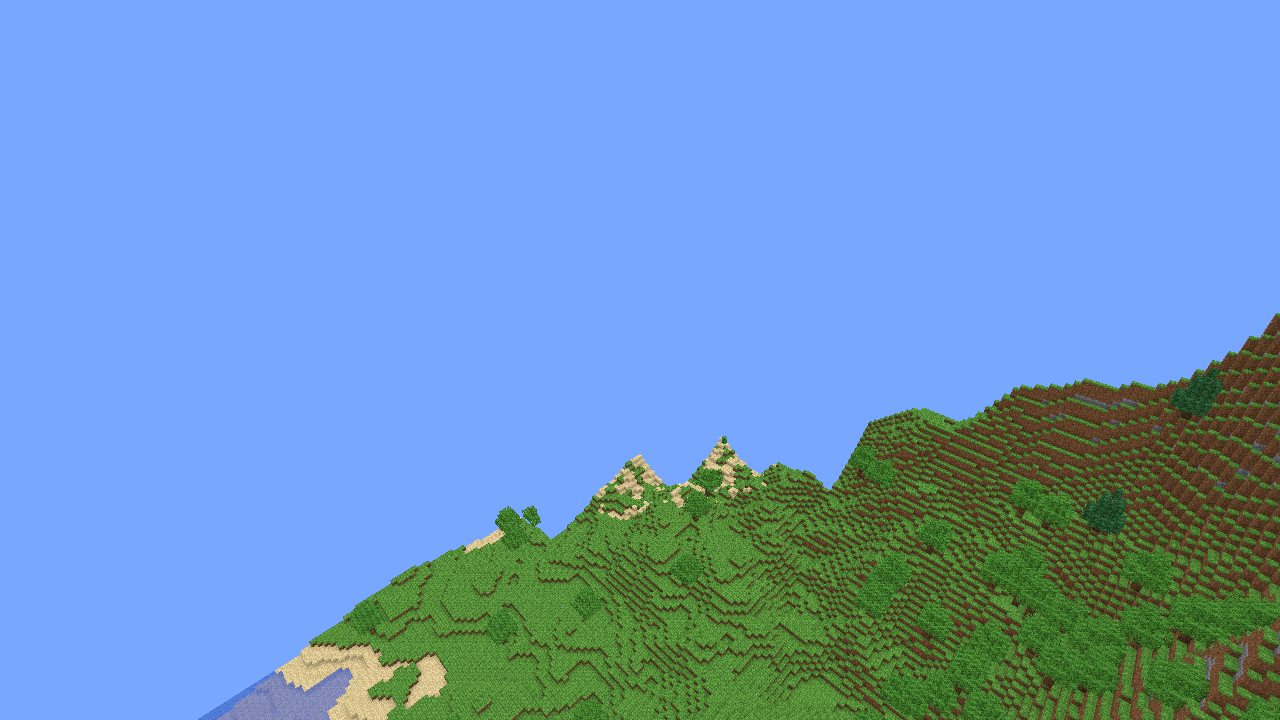
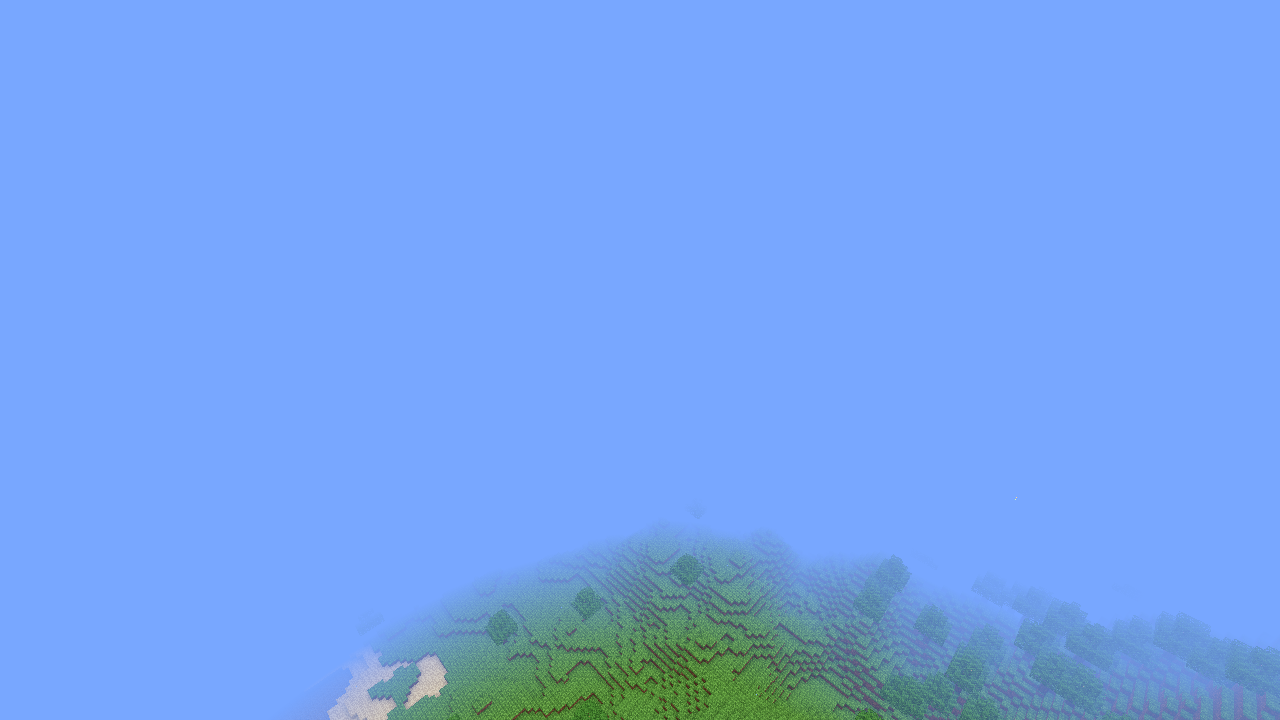
fix: gentler mountains, fog in captures, no anisotropy in presets
Mountain ranges are wider with rounded shoulders instead of thin 250-block spires.
Captures and biome views use the fog of their settings. Anisotropic filtering, which
smooths pixel art up close, is off in every preset. Reference screenshots updated.

Claude-Session: https://claude.ai/code/session_01RznEhak9j1HUkMPKL5bSvG

Changed region(s): [[0.1562, 0.4278, 1.0, 1.0]]

diff --git a/crates/app/src/renders.rs b/crates/app/src/renders.rs
@@ -20,9 +20,9 @@ const BIOME_SEED: &str = "Strata Mundi wiki";
 const SEARCH_STEP: i32 = 48;
 const SEARCH_RINGS: i32 = 160;
 /// The camera stands this far back from the place it shows, on both axes.
-const BACK: i32 = 72;
+const BACK: i32 = 110;
 /// Columns generated around the camera: enough for the view, quick on the CPU.
-const VIEW_RADIUS: u32 = 10;
+const VIEW_RADIUS: u32 = 12;
 /// The view needs this much of the same biome around it, in blocks.
 const BIOME_MARGIN: i32 = 40;
 
@@ -69,7 +69,7 @@ pub fn render_biomes(
             .map(|step| ground(ex + step * 4, ez + step * 4))
             .max()
             .unwrap_or(0);
-        let eye_y = (target + 40.0).max(f64::from(highest) + 16.0);
+        let eye_y = (target + 60.0).max(f64::from(highest) + 24.0);
         let eye = DVec3::new(f64::from(ex), eye_y, f64::from(ez));
         let distance = f64::from(BACK) * std::f64::consts::SQRT_2;
         let pitch = ((target - eye_y) / distance).atan().to_degrees() as f32;
@@ -77,7 +77,11 @@ pub fn render_biomes(
         let view = View {
             camera: Camera::new(eye, 135.0, pitch, 70.0),
             size: (960, 540),
-            graphics: graphics.clone(),
+            // The fog ends where the generated area does.
+            graphics: GraphicsSettings {
+                render_distance: VIEW_RADIUS,
+                ..graphics.clone()
+            },
         };
         let path = image_path(dir, &biome.id);
         capture(content, &world, &view, &path).with_context(|| format!("biome {}", biome.id))?;

diff --git a/crates/worldgen/src/climate.rs b/crates/worldgen/src/climate.rs
@@ -37,7 +37,7 @@ impl ClimateMaps {
             continentalness: Noise::new(seed, 3, 1.0 / (1100.0 * scale), 4),
             erosion: Noise::new(seed, 4, 1.0 / (700.0 * scale), 3),
             detail: Noise::new(seed, 5, 1.0 / 64.0, 4),
-            ridges: Noise::new(seed, 7, 1.0 / 220.0, 3),
+            ridges: Noise::new(seed, 7, 1.0 / 420.0, 3),
             jitter: Noise::new(seed, 6, 1.0 / 6.0, 1),
             sea_level: f64::from(content.terrain.sea_level),
         }
@@ -63,10 +63,11 @@ impl ClimateMaps {
         let ruggedness = smoothstep(0.0, 0.8, -climate.erosion);
         let inland = smoothstep(-0.1, 0.35, c);
         // Ridged noise (sharp crests, wide valleys) shapes the mountain ranges.
-        let ridge = (1.0 - self.ridges.at(x, z).abs()).powi(3);
-        let mountains = ruggedness * inland * (60.0 + 190.0 * ridge);
+        // Wide ranges with rounded shoulders: a crest climbs over ~100 blocks, not 20.
+        let ridge = (1.0 - self.ridges.at(x, z).abs()).powi(2);
+        let mountains = ruggedness * inland * (50.0 + 140.0 * ridge);
         let hills = (1.0 - ruggedness) * inland * 14.0;
-        let detail = self.detail.at(x, z) * (4.0 + mountains * 0.08 + hills * 0.6);
+        let detail = self.detail.at(x, z) * (4.0 + mountains * 0.05 + hills * 0.6);
         (base + mountains + detail + hills * (self.detail.at(z, x) * 0.5 + 0.5))
             .clamp(1.0, MAX_HEIGHT) as i32
     }

diff --git a/crates/client/src/render/mod.rs b/crates/client/src/render/mod.rs
@@ -21,7 +21,7 @@ pub use ui_pipeline::UiPipeline;
 
 use crate::camera::Camera;
 use crate::mesher::{SectionKey, SectionMesh};
-use crate::settings::{ColorFilter, Settings};
+use crate::settings::{ColorFilter, GraphicsSettings, Settings};
 use block_pipeline::{BlockPass, BlockPipeline, CameraUniform};
 use depth::DepthBuffer;
 use frustum::Frustum;
@@ -112,12 +112,20 @@ impl Default for RenderOptions {
 
 impl RenderOptions {
     pub fn from_settings(settings: &Settings) -> Self {
-        let graphics = &settings.graphics;
+        Self {
+            render_scale: settings.graphics.render_scale as f32 / 100.0,
+            color_filter: settings.interface.color_filter,
+            ..Self::for_capture(&settings.graphics)
+        }
+    }
+
+    /// Captures: the fog of the graphics settings, full resolution, no filter.
+    pub fn for_capture(graphics: &GraphicsSettings) -> Self {
         Self {
             fog: graphics.fog,
             fog_end: (graphics.render_distance as f32 - 0.5) * SECTION_SIZE as f32,
-            render_scale: graphics.render_scale as f32 / 100.0,
-            color_filter: settings.interface.color_filter,
+            render_scale: 1.0,
+            color_filter: ColorFilter::None,
         }
     }
 

diff --git a/crates/client/src/screenshot.rs b/crates/client/src/screenshot.rs
@@ -1,8 +1,8 @@
 use crate::camera::Camera;
 use crate::mesher::{BlockTable, mesh_section};
 use crate::render::{
-    Gpu, GpuError, OFFSCREEN_FORMAT, OffscreenTarget, ReadbackError, Renderer, Target,
-    TextureFiltering,
+    Gpu, GpuError, OFFSCREEN_FORMAT, OffscreenTarget, ReadbackError, RenderOptions, Renderer,
+    Target, TextureFiltering,
 };
 use crate::settings::GraphicsSettings;
 use crate::world::ClientWorld;
@@ -65,6 +65,7 @@ pub fn render_image(
     let ao = view.graphics.ambient_occlusion;
     renderer.ambient_occlusion = f32::from(u8::from(ao));
     renderer.vertical_distance = view.graphics.vertical_distance;
+    renderer.options = RenderOptions::for_capture(&view.graphics);
     let table = BlockTable::new(content.blocks.iter().map(|(_, _, block)| block));
     for key in world.section_keys() {
         let mesh = mesh_section(&world.neighborhood(key), &table, ao);

diff --git a/crates/client/src/settings/graphics.rs b/crates/client/src/settings/graphics.rs
@@ -121,11 +121,8 @@ impl GraphicsSettings {
             ambient_occlusion,
             fog: true,
             mipmaps: !matches!(preset, Preset::VeryLow | Preset::Ds),
-            anisotropy: match preset {
-                Preset::High => 4,
-                Preset::Ultra => 16,
-                _ => 1,
-            },
+            // Off in every preset: it smooths the pixel art up close (left to taste).
+            anisotropy: 1,
             worker_threads: threads,
             generation_threads: threads,
         }
